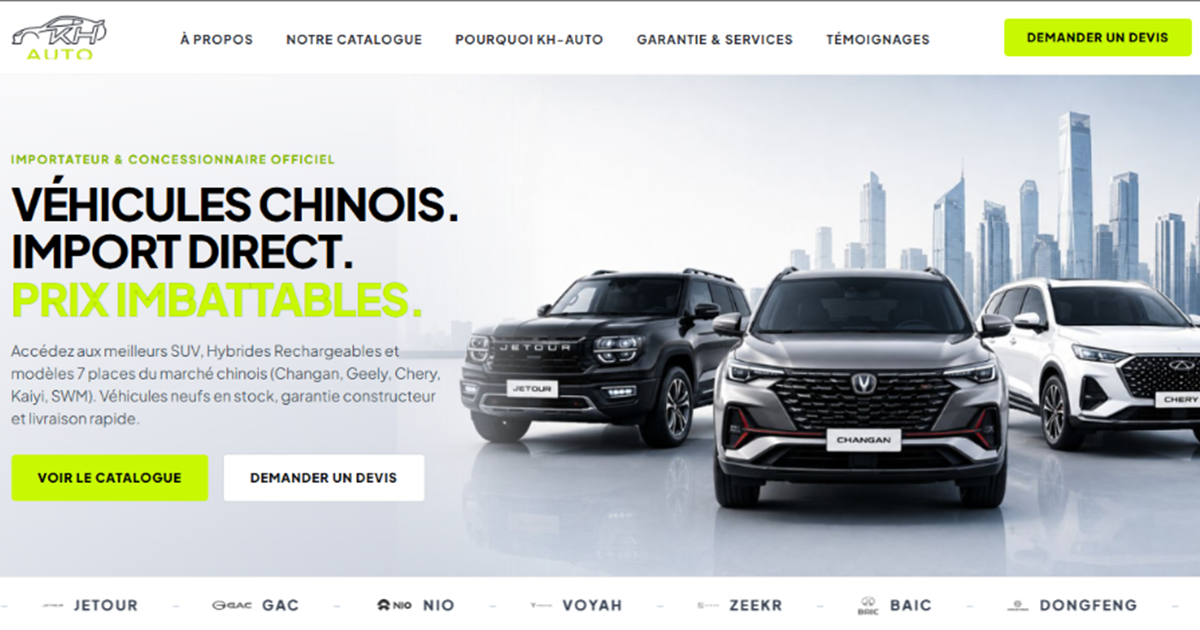
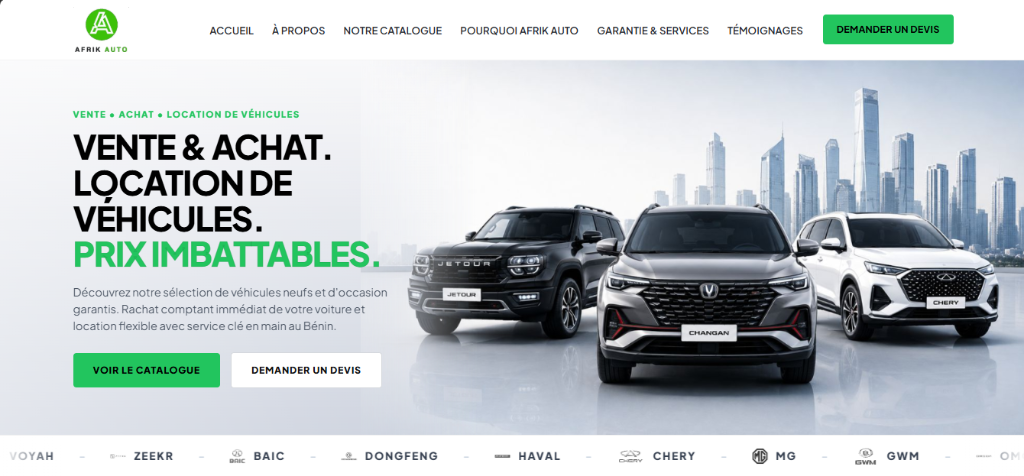
feat: update official Open Graph preview image (og:image) for WhatsApp and social networks

diff --git a/index.html b/index.html
@@ -14,8 +14,8 @@
   <meta property="og:site_name" content="AFRIK AUTO">
   <meta property="og:title" content="AFRIK AUTO — Concessionnaire Officiel Véhicules Multimarques">
   <meta property="og:description" content="AFRIK AUTO : Vente de véhicules neufs et d'occasion (Toyota, Nissan, Hyundai, Mercedes, Changan, Geely), rachat cash immédiat et location de véhicules au Bénin.">
-  <meta property="og:image" content="https://raw.githubusercontent.com/lincolndahou/kh-auto/main/assets/images/og-image.jpg">
-  <meta property="og:image:secure_url" content="https://raw.githubusercontent.com/lincolndahou/kh-auto/main/assets/images/og-image.jpg">
+  <meta property="og:image" content="https://raw.githubusercontent.com/lincolndahou/afrikauto/main/assets/images/og-image.jpg">
+  <meta property="og:image:secure_url" content="https://raw.githubusercontent.com/lincolndahou/afrikauto/main/assets/images/og-image.jpg">
   <meta property="og:image:type" content="image/jpeg">
   <meta property="og:image:width" content="1200">
   <meta property="og:image:height" content="630">
@@ -25,7 +25,7 @@
   <meta name="twitter:card" content="summary_large_image">
   <meta name="twitter:title" content="AFRIK AUTO — Concessionnaire Officiel Véhicules Multimarques">
   <meta name="twitter:description" content="AFRIK AUTO — Vente, Rachat et Location de véhicules toutes marques au Bénin et en Afrique de l'Ouest.">
-  <meta name="twitter:image" content="https://raw.githubusercontent.com/lincolndahou/kh-auto/main/assets/images/og-image.jpg">
+  <meta name="twitter:image" content="https://raw.githubusercontent.com/lincolndahou/afrikauto/main/assets/images/og-image.jpg">
   <meta name="twitter:image:alt" content="AFRIK AUTO - Concessionnaire Officiel Véhicules Multimarques">
   
   <!-- Google Fonts: Plus Jakarta Sans & Inter -->

diff --git a/catalogue.html b/catalogue.html
@@ -14,8 +14,8 @@
   <meta property="og:site_name" content="AFRIK AUTO">
   <meta property="og:title" content="Catalogue Complet des Véhicules — AFRIK AUTO">
   <meta property="og:description" content="Découvrez tous les véhicules neufs disponibles chez AFRIK AUTO : Changan, Chery, Geely, Jetour, Kaiyi, SWM. SUV Hybrides Rechargeables et 7 Places.">
-  <meta property="og:image" content="https://raw.githubusercontent.com/lincolndahou/kh-auto/main/assets/images/og-image.jpg">
-  <meta property="og:image:secure_url" content="https://raw.githubusercontent.com/lincolndahou/kh-auto/main/assets/images/og-image.jpg">
+  <meta property="og:image" content="https://raw.githubusercontent.com/lincolndahou/afrikauto/main/assets/images/og-image.jpg">
+  <meta property="og:image:secure_url" content="https://raw.githubusercontent.com/lincolndahou/afrikauto/main/assets/images/og-image.jpg">
   <meta property="og:image:type" content="image/jpeg">
   <meta property="og:image:width" content="1200">
   <meta property="og:image:height" content="630">
@@ -25,7 +25,7 @@
   <meta name="twitter:card" content="summary_large_image">
   <meta name="twitter:title" content="Catalogue Complet des Véhicules — AFRIK AUTO">
   <meta name="twitter:description" content="Explorez toute la collection de véhicules neufs, occasions et location chez AFRIK AUTO.">
-  <meta name="twitter:image" content="https://raw.githubusercontent.com/lincolndahou/kh-auto/main/assets/images/og-image.jpg">
+  <meta name="twitter:image" content="https://raw.githubusercontent.com/lincolndahou/afrikauto/main/assets/images/og-image.jpg">
   <meta name="twitter:image:alt" content="Catalogue Véhicules Multimarques AFRIK AUTO">
   
   <!-- Google Fonts: Plus Jakarta Sans & Inter -->

diff --git a/vehicule.html b/vehicule.html
@@ -14,8 +14,8 @@
   <meta property="og:site_name" content="AFRIK AUTO">
   <meta property="og:title" content="Fiche Technique Détaillée — AFRIK AUTO">
   <meta property="og:description" content="Fiche technique complète, caractéristiques mécaniques, photos et prix CIF du véhicule chez AFRIK AUTO.">
-  <meta property="og:image" content="https://raw.githubusercontent.com/lincolndahou/kh-auto/main/assets/images/og-image.jpg">
-  <meta property="og:image:secure_url" content="https://raw.githubusercontent.com/lincolndahou/kh-auto/main/assets/images/og-image.jpg">
+  <meta property="og:image" content="https://raw.githubusercontent.com/lincolndahou/afrikauto/main/assets/images/og-image.jpg">
+  <meta property="og:image:secure_url" content="https://raw.githubusercontent.com/lincolndahou/afrikauto/main/assets/images/og-image.jpg">
   <meta property="og:image:type" content="image/jpeg">
   <meta property="og:image:width" content="1200">
   <meta property="og:image:height" content="630">
@@ -25,7 +25,7 @@
   <meta name="twitter:card" content="summary_large_image">
   <meta name="twitter:title" content="Fiche Technique Détaillée — AFRIK AUTO">
   <meta name="twitter:description" content="Découvrez tous les détails et commandez votre véhicule neuf chez AFRIK AUTO.">
-  <meta name="twitter:image" content="https://raw.githubusercontent.com/lincolndahou/kh-auto/main/assets/images/og-image.jpg">
+  <meta name="twitter:image" content="https://raw.githubusercontent.com/lincolndahou/afrikauto/main/assets/images/og-image.jpg">
   <meta name="twitter:image:alt" content="Véhicules Multimarques AFRIK AUTO">
   
   <!-- Google Fonts: Plus Jakarta Sans & Inter -->
